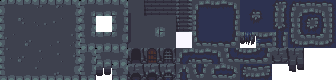
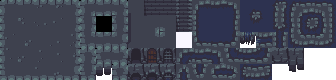
Add map creation with simple island generator

Changed region(s): [[0.2679, 0.2, 0.3571, 0.4]]

diff --git a/action_map.py b/action_map.py
@@ -1,27 +1,53 @@
 class ActionMap():
     tiles = []
-    MAP_WIDTH_IN_TILES = 28
-    MAP_HEIGHT_IN_TILES = 21
+    MAP_WIDTH_IN_TILES = 1000
+    MAP_HEIGHT_IN_TILES = 1000
+    T_EMPTY = 69
+    T_LAND_BL = 0
+    T_LAND_BR = 4
+    T_LAND_TL = 84
+    T_LAND_TR = 88
+    T_LAND_B = 1
+    T_LAND_B_DROP = 6
+    T_LAND_T = 85
+    T_LAND_L = 63
+    T_LAND_R = 67
+    T_LAND_MID = 44
 
     def __init__(self):
-        pass
+        for x in range(0, self.MAP_WIDTH_IN_TILES):
+            self.tiles.append([])
+            for y in range(0, self.MAP_HEIGHT_IN_TILES):
+                self.tiles[x].append(self.T_EMPTY)
+        self.create_island(10, 10, 5, 5)
 
-    def get_index(self, x, y):
-        if x == 0 and y == 0:
-            return 0
-        elif x == 0 and y == self.MAP_HEIGHT_IN_TILES - 1:
-            return 84
-        elif x == self.MAP_WIDTH_IN_TILES - 1 and y == 0:
-            return 4
-        elif x == self.MAP_WIDTH_IN_TILES - 1 and y == self.MAP_HEIGHT_IN_TILES - 1:
-            return 88
-        elif x == 0:
-            return 21
-        elif y == 0:
-            return 1
-        elif x == self.MAP_WIDTH_IN_TILES - 1:
-            return 67
-        elif y == self.MAP_HEIGHT_IN_TILES - 1:
-            return 85
-        else:
-            return 44
+    def get_tile(self, x, y):
+        if x < 0 or y < 0 or x > self.MAP_WIDTH_IN_TILES or y > self.MAP_HEIGHT_IN_TILES:
+            print("Out of bound for getting tiles")
+            return self.T_EMPTY
+        return self.tiles[x][y]
+
+    def create_island(self, x, y, width, height):
+        if x <= 0 or y <= 0 or x + width > self.MAP_WIDTH_IN_TILES  \
+                or y + height > self.MAP_HEIGHT_IN_TILES:
+            print("Out of bounds for creating island")
+            return
+        self.tiles[x][y] = self.T_LAND_BL
+        self.tiles[x + width][y] = self.T_LAND_BR
+        self.tiles[x][y + height] = self.T_LAND_TL
+        self.tiles[x + width][y + height] = self.T_LAND_TR
+        self.tiles[x][y - 1] = self.T_LAND_B_DROP
+        self.tiles[x + width][y - 1] = self.T_LAND_B_DROP
+
+        for i in range(1, width):
+            self.tiles[x + i][y] = self.T_LAND_B
+            self.tiles[x + i][y + height] = self.T_LAND_T
+            self.tiles[x + i][y - 1] = self.T_LAND_B_DROP
+
+        for j in range(1, height):
+            self.tiles[x][y + j] = self.T_LAND_L
+            self.tiles[x + width][y + j] = self.T_LAND_R
+
+        for i in range(1, width):
+            for j in range(1, height):
+                self.tiles[x + i][y + j] = self.T_LAND_MID

diff --git a/camera.py b/camera.py
@@ -6,11 +6,12 @@ class Camera(Widget):
     CAMERA_WIDTH_IN_TILES = 28
     CAMERA_HEIGHT_IN_TILES = 21
 
-    def __init__(self, graphics, **kwargs):
+    def __init__(self, graphics, action_map, **kwargs):
         super().__init__(**kwargs)
         self.tile_width = 8
         self.tile_height = 8
         self.graphics = graphics
+        self.action_map = action_map
 
         for x in range(0, self.CAMERA_WIDTH_IN_TILES):
             self.tiles.append([])
@@ -18,7 +19,7 @@ class Camera(Widget):
                 r = Rectangle()
                 r.pos = (x*self.tile_width, y*self.tile_height)
                 r.size = (self.tile_width, self.tile_height)
-                r.texture = self.graphics.get_map_texture(0)
+                r.texture = self.graphics.get_map_texture(self.action_map.get_tile(x, y))
                 self.tiles[x].append(r)
                 self.canvas.add(r)
 

diff --git a/graphics.py b/graphics.py
@@ -10,6 +10,7 @@ class Graphics:
         self.map_sheet = Image(source="dungeon.png")
 
     def get_map_texture(self, index):
-        x, y = index % self.SHEET_WIDTH_IN_TILES, index / self.SHEET_WIDTH_IN_TILES
-        return self.map_sheet.texture.get_region(x * self.SHEET_TILE_WIDTH, \
-                y * self.SHEET_TILE_HEIGHT, self.SHEET_TILE_WIDTH, self.SHEET_TILE_HEIGHT)
+        x, y = index % self.SHEET_WIDTH_IN_TILES, index // self.SHEET_WIDTH_IN_TILES
+        return self.map_sheet.texture.get_region(x * self.SHEET_TILE_WIDTH + 1, \
+                y * self.SHEET_TILE_HEIGHT + 1, self.SHEET_TILE_WIDTH - 2, \
+                self.SHEET_TILE_HEIGHT - 2)

diff --git a/main.py b/main.py
@@ -13,7 +13,7 @@ class ActionGame(Widget):
 
     def __init__(self, **kwargs):
         super().__init__(**kwargs)
-        self.camera = Camera(self.graphics)
+        self.camera = Camera(self.graphics, self.action_map)
         self.add_widget(self.camera)
         self.bind(size=self.resize)
 
